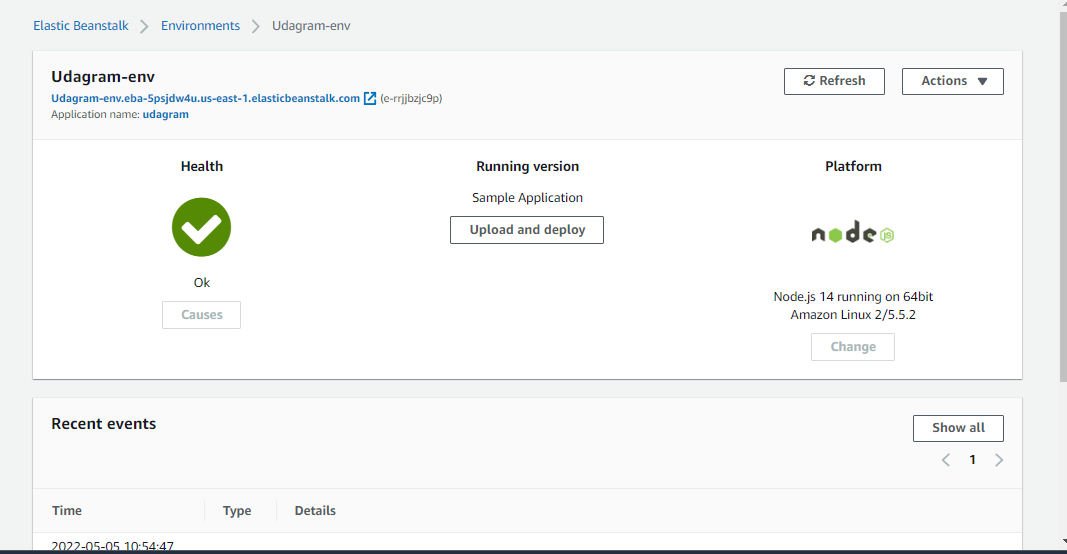
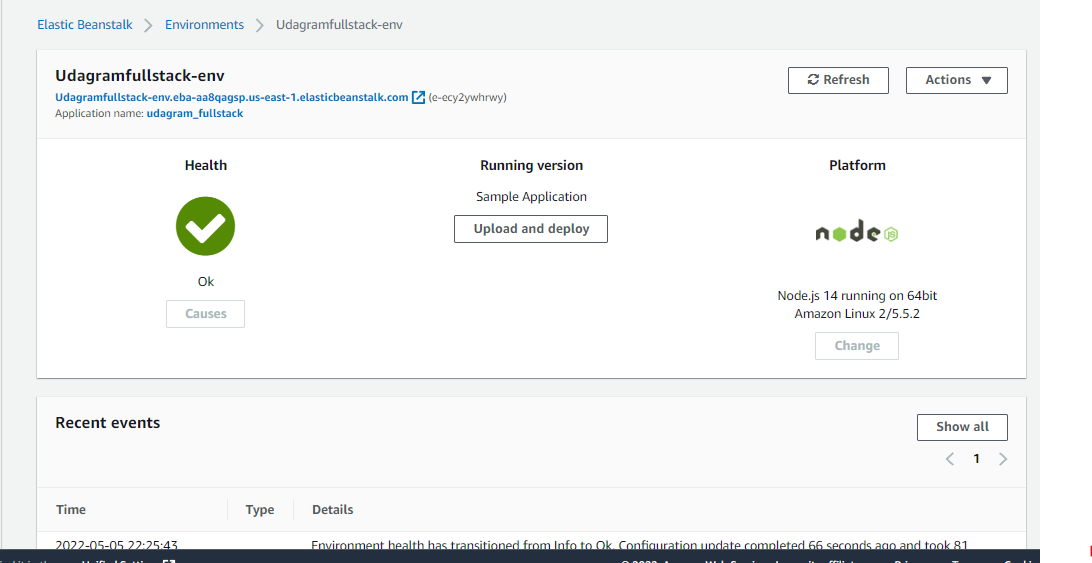
updated eb env in docs

diff --git a/documentation/Infrastructure description.md b/documentation/Infrastructure description.md
@@ -20,7 +20,7 @@ AWS RDS PostgreSQL Database info Sequelize:
 
 ## Elastic Beanstalk
 
-EB URL: [http://Udagram-env.eba-5psjdw4u.us-east-1.elasticbeanstalk.com](http://Udagram-env.eba-5psjdw4u.us-east-1.elasticbeanstalk.com)
+EB URL: [http://Udagramfullstack-env.eba-aa8qagsp.us-east-1.elasticbeanstalk.com](http://Udagramfullstack-env.eba-aa8qagsp.us-east-1.elasticbeanstalk.com)
 
 ![eb](../screenshots/eb.PNG)
 
